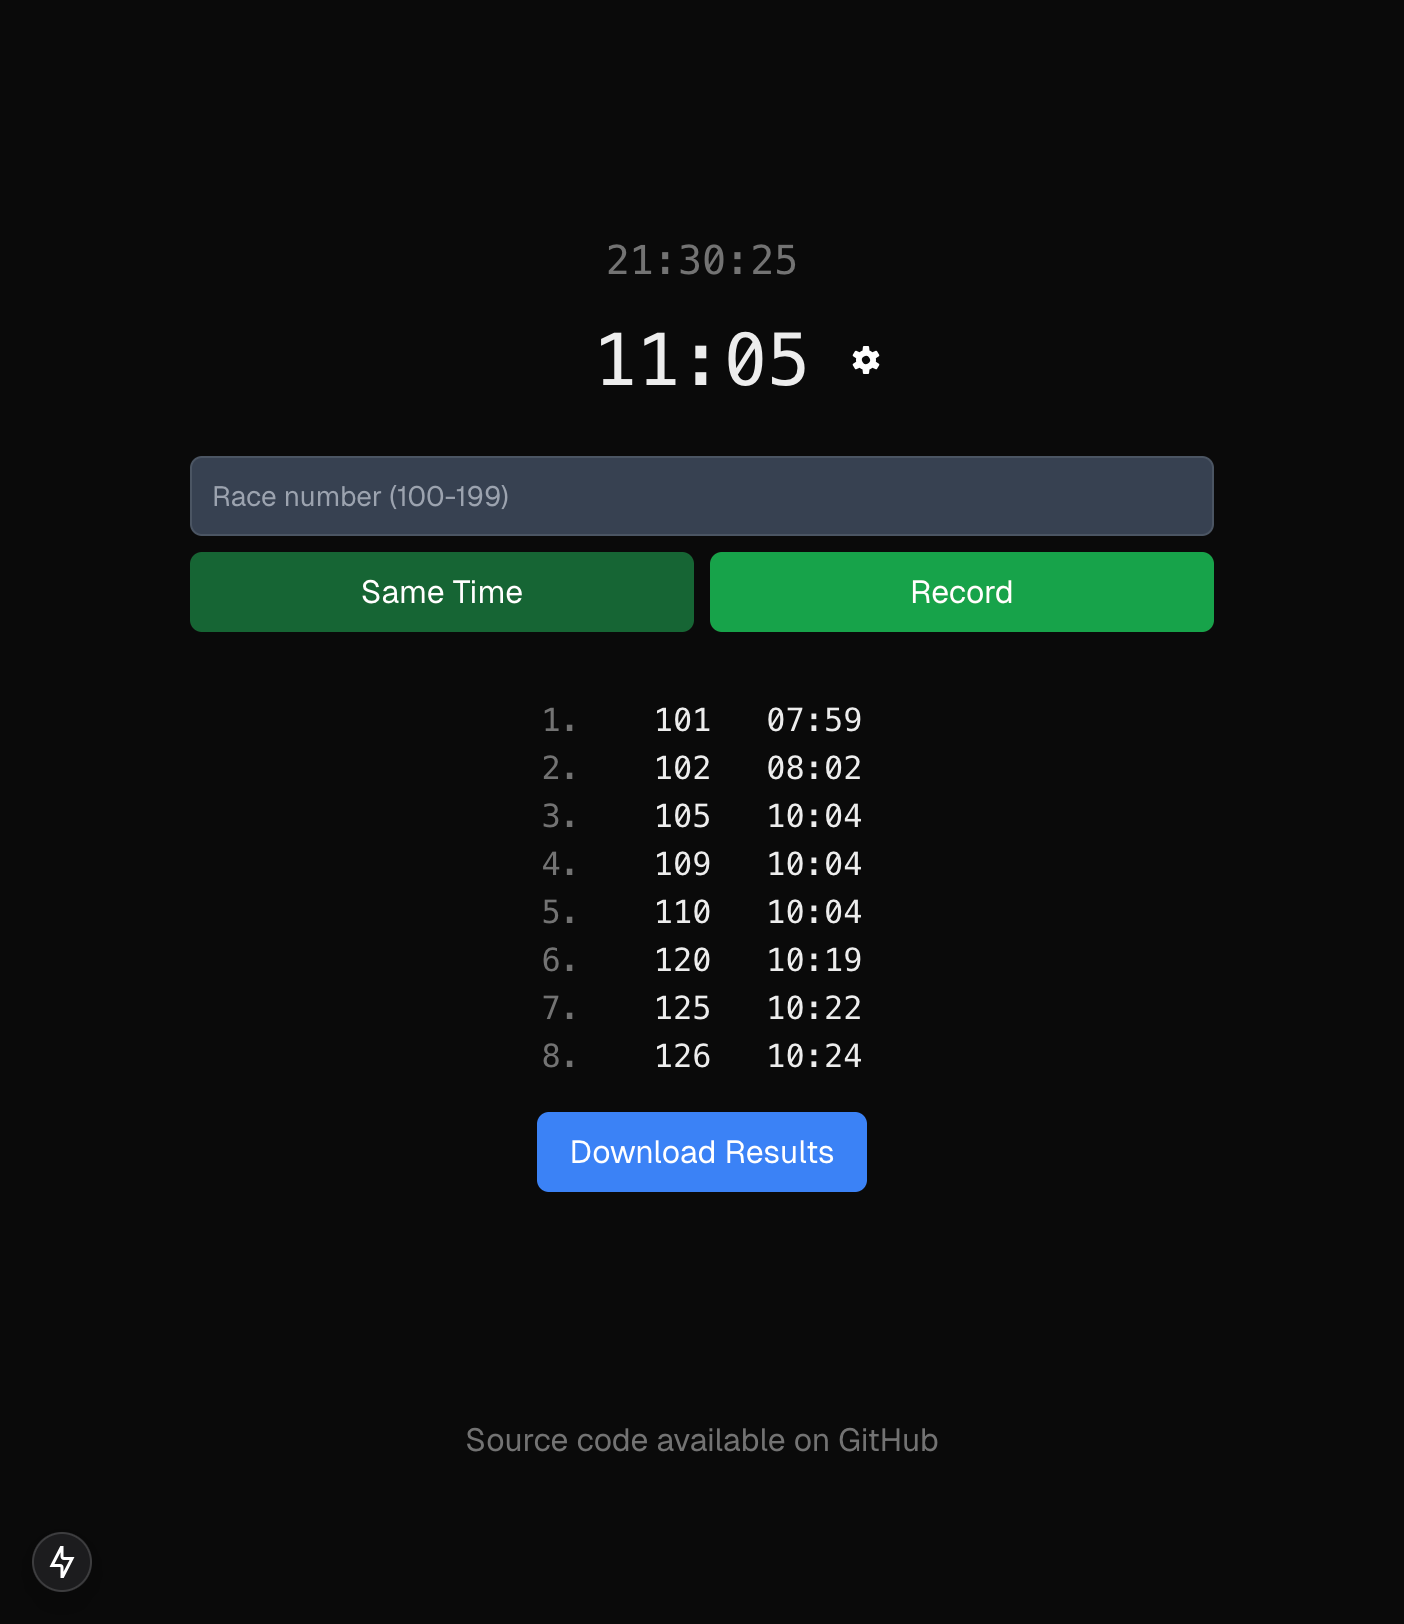
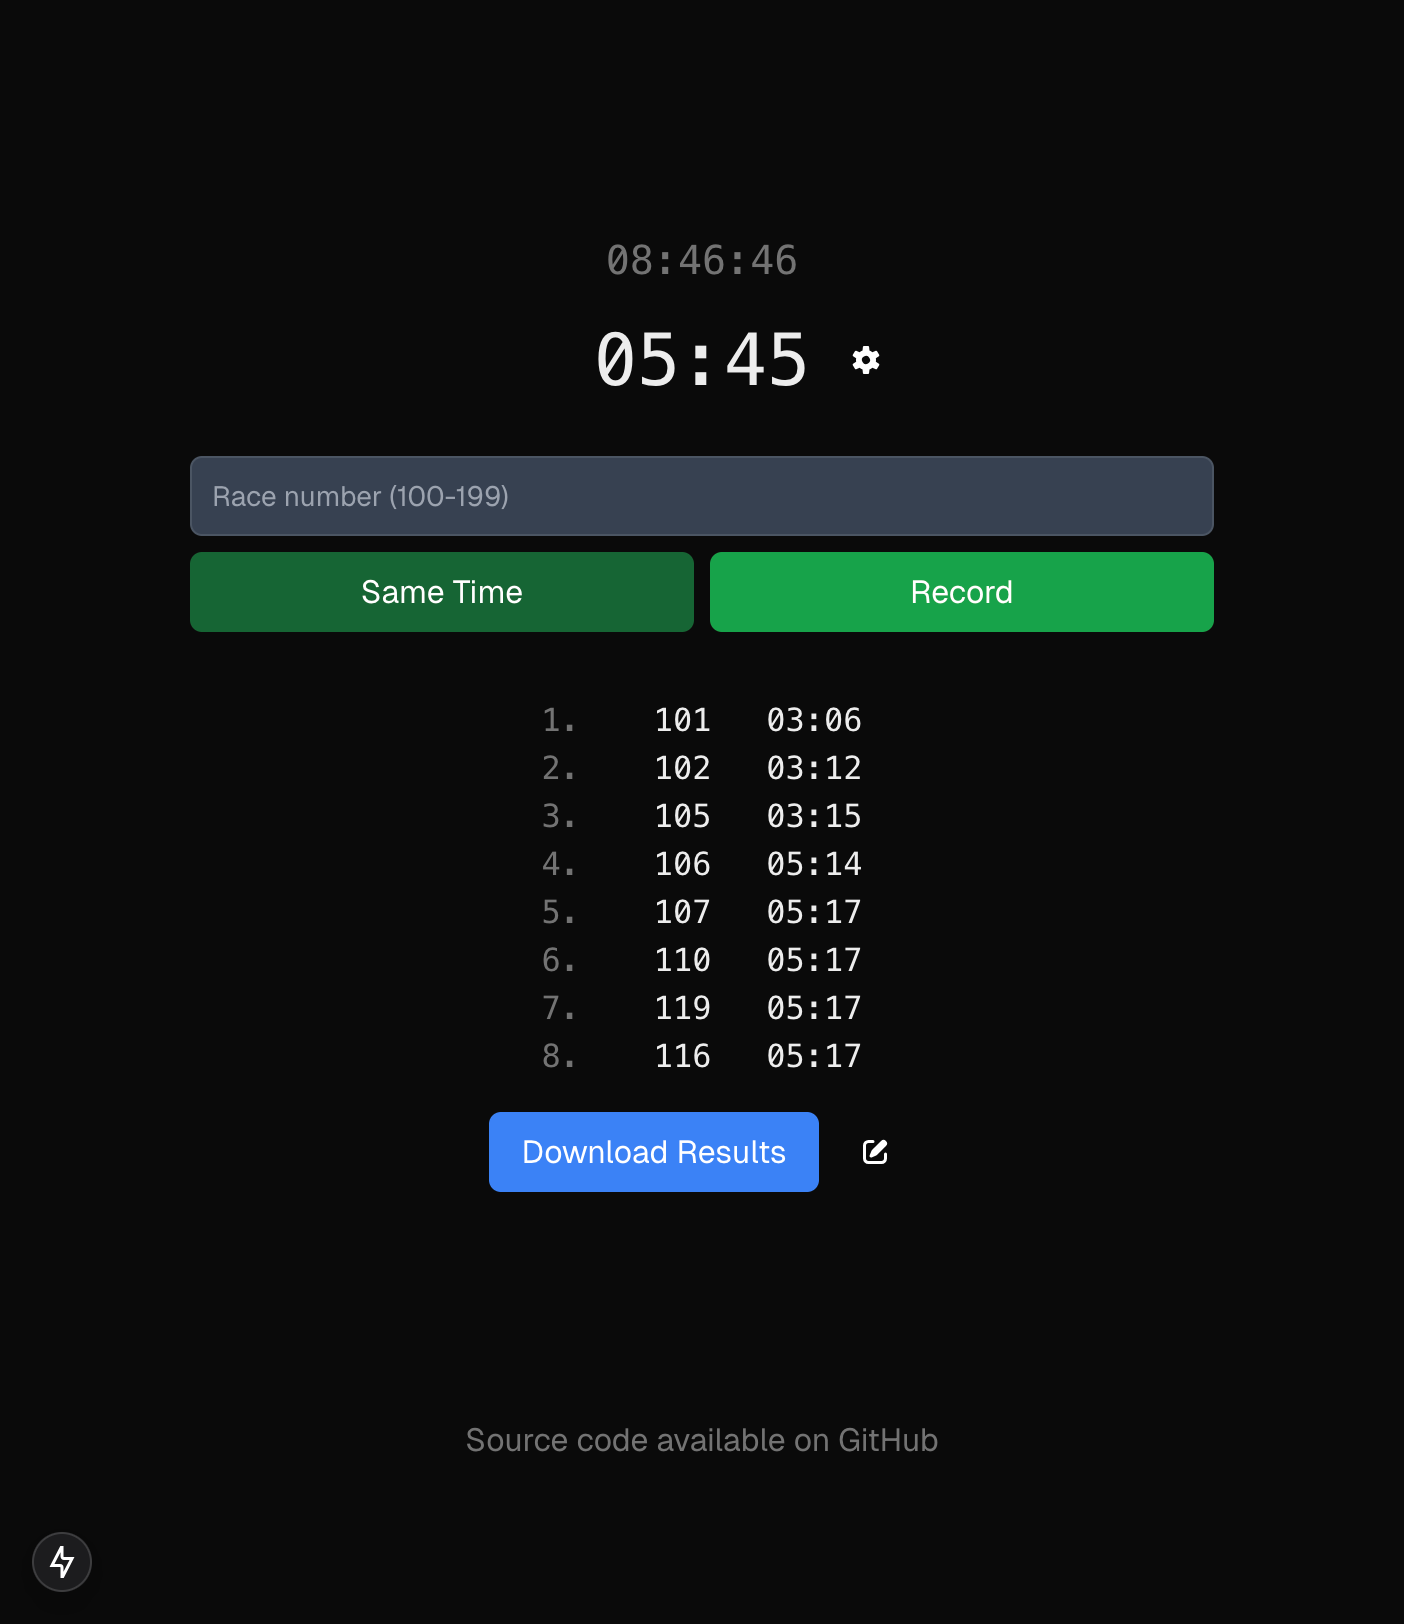
Update README with notes screenshot

diff --git a/README.md b/README.md
@@ -22,11 +22,12 @@ For groups arriving to the finish line, the "same time" feature will let all rac
 The results can be downloaded at any time in a csv format.
 ![Seeing all results](images/results.png)
 
-The recording doesn't provide any editing capabilities (yet), but will prevent having invalid or duplicated numbers. 
-Also, the available race number range can be set in the settings.
-![Settings](images/settings.png)
+As the recording doesn't provide any editing capabilities to avoid messing up with stuff, it was done to prevent the obvious and will prevent having invalid or duplicated numbers.
+Also, notes can be taken if needed, to write DNF or any other mistakes.
+![Notes](images/notes.png)
 
-The reset of the timer can also be done in the settings and will go through a confirmation.
+Also, the available race number range can be set in the settings. The reset of the timer can also be done in the settings and will go through a confirmation.
+![Settings](images/settings.png)
 
 ## Running it locally
 
